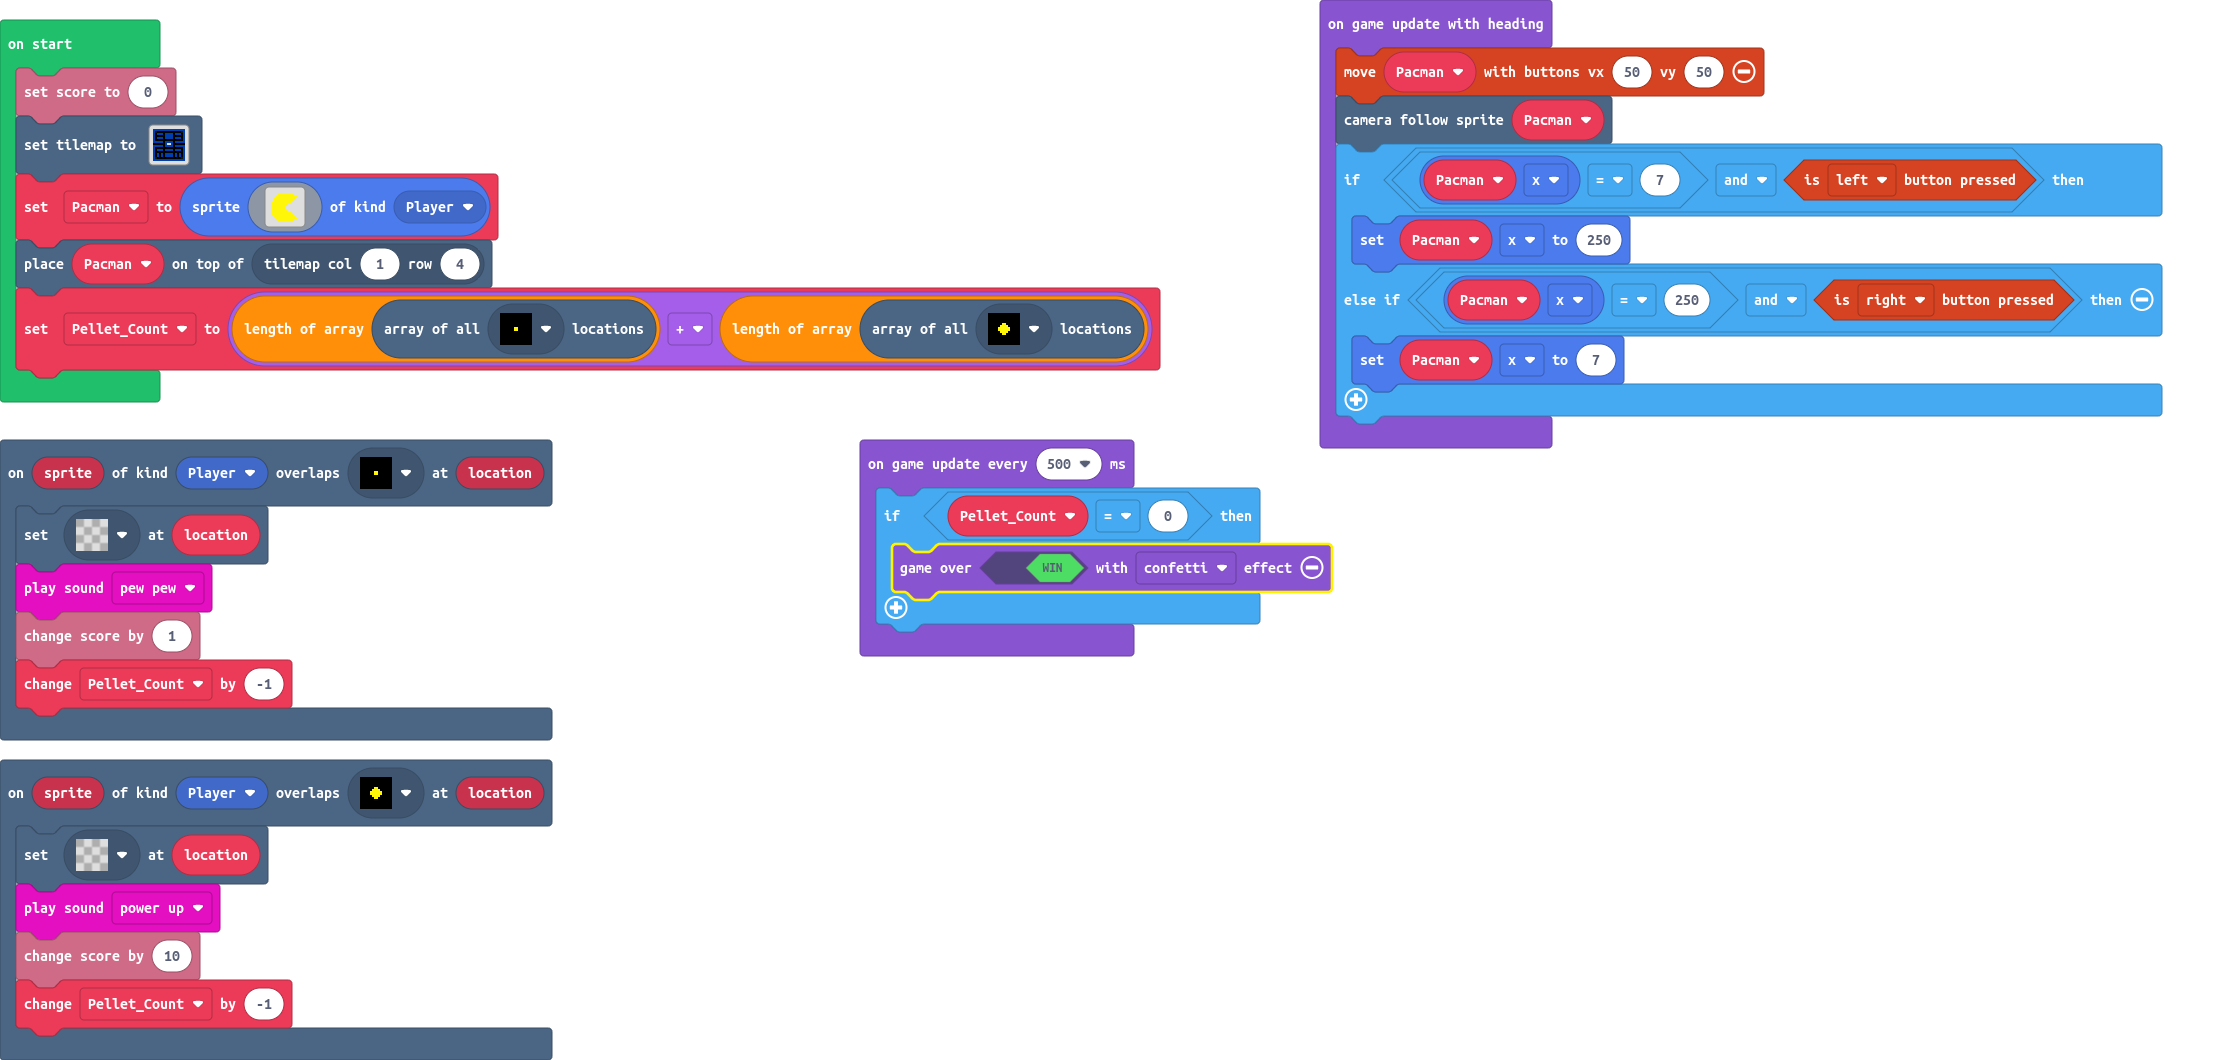
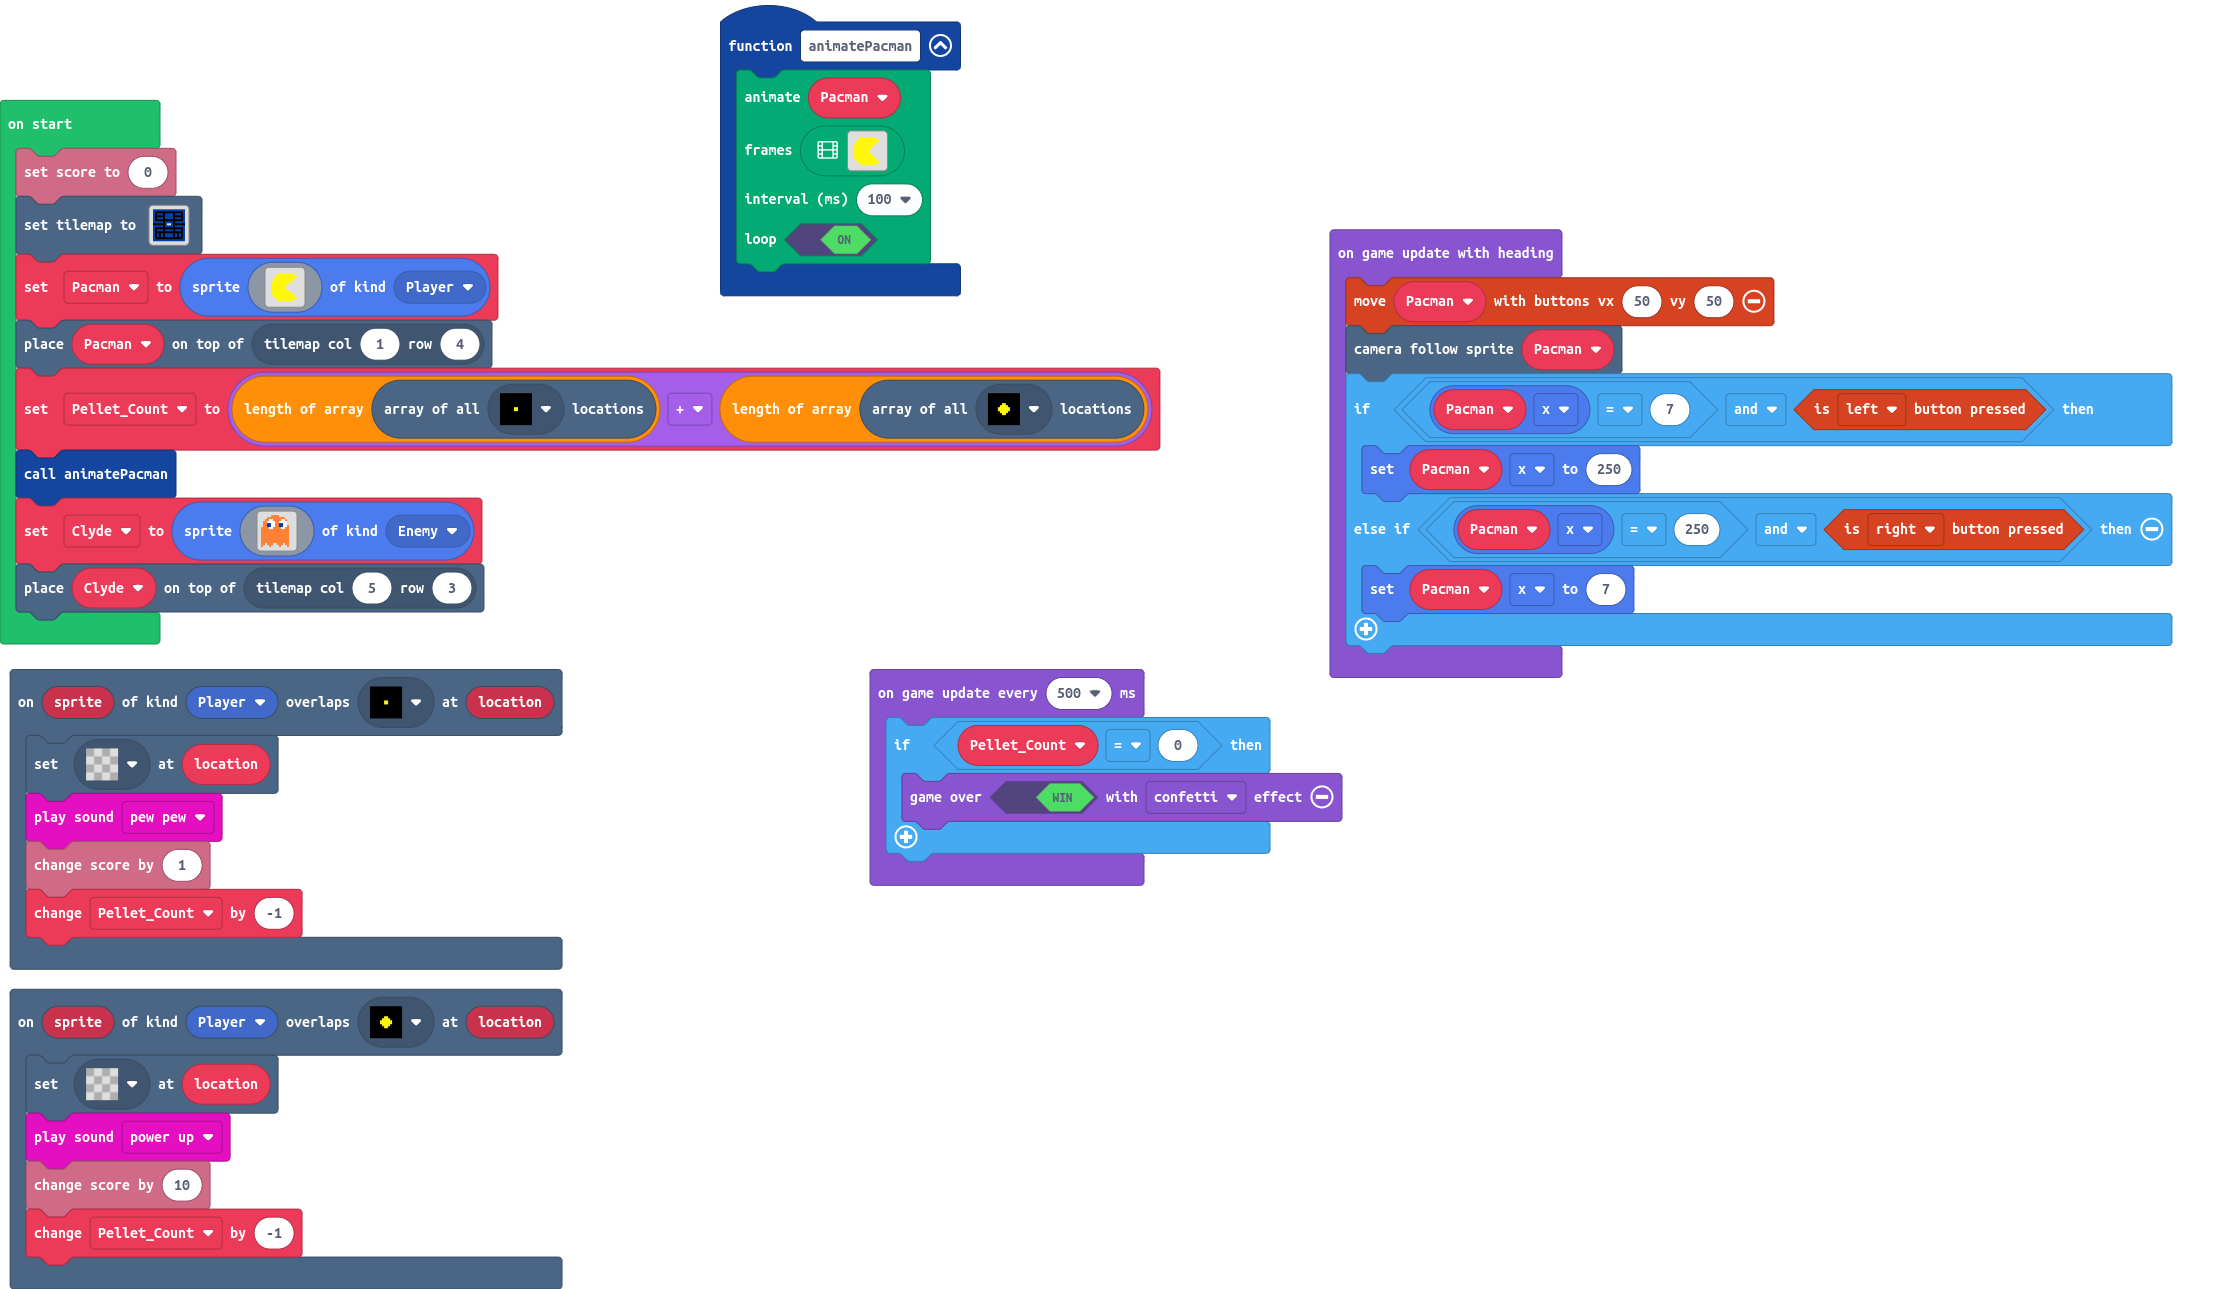
create clyde

diff --git a/main.ts b/main.ts
@@ -1,3 +1,96 @@
+function animatePacman () {
+    animation.runImageAnimation(
+    Pacman,
+    [img`
+        . . . . . . . . . . . . . . . . 
+        . . . . 5 5 5 5 5 5 5 5 . . . . 
+        . . . 5 5 5 5 5 5 5 5 5 5 5 . . 
+        . . 5 5 5 5 5 5 5 5 5 5 5 . . . 
+        . . 5 5 5 5 5 5 5 5 5 5 . . . . 
+        . 5 5 5 5 5 5 5 5 5 5 . . . . . 
+        . 5 5 5 5 5 5 5 5 5 . . . . . . 
+        . 5 5 5 5 5 5 5 5 . . . . . . . 
+        . 5 5 5 5 5 5 5 5 . . . . . . . 
+        . 5 5 5 5 5 5 5 5 5 . . . . . . 
+        . 5 5 5 5 5 5 5 5 5 5 . . . . . 
+        . 5 5 5 5 5 5 5 5 5 5 5 . . . . 
+        . . 5 5 5 5 5 5 5 5 5 5 5 . . . 
+        . . . 5 5 5 5 5 5 5 5 5 5 5 . . 
+        . . . . 5 5 5 5 5 5 5 5 . . . . 
+        . . . . . . . . . . . . . . . . 
+        `,img`
+        . . . . . . . . . . . . . . . . 
+        . . . . 5 5 5 5 5 5 5 5 . . . . 
+        . . . 5 5 5 5 5 5 5 5 5 5 5 . . 
+        . . 5 5 5 5 5 5 5 5 5 5 5 5 . . 
+        . . 5 5 5 5 5 5 5 5 5 5 5 5 5 . 
+        . 5 5 5 5 5 5 5 5 5 5 5 5 5 5 . 
+        . 5 5 5 5 5 5 5 5 5 5 . . . . . 
+        . 5 5 5 5 5 5 5 5 . . . . . . . 
+        . 5 5 5 5 5 5 5 5 . . . . . . . 
+        . 5 5 5 5 5 5 5 5 5 5 . . . . . 
+        . 5 5 5 5 5 5 5 5 5 5 5 5 5 5 . 
+        . 5 5 5 5 5 5 5 5 5 5 5 5 5 5 . 
+        . . 5 5 5 5 5 5 5 5 5 5 5 5 . . 
+        . . . 5 5 5 5 5 5 5 5 5 5 5 . . 
+        . . . . 5 5 5 5 5 5 5 5 . . . . 
+        . . . . . . . . . . . . . . . . 
+        `,img`
+        . . . . . . . . . . . . . . . . 
+        . . . . 5 5 5 5 5 5 5 5 . . . . 
+        . . . 5 5 5 5 5 5 5 5 5 5 . . . 
+        . . 5 5 5 5 5 5 5 5 5 5 5 5 . . 
+        . . 5 5 5 5 5 5 5 5 5 5 5 5 . . 
+        . 5 5 5 5 5 5 5 5 5 5 5 5 5 5 . 
+        . 5 5 5 5 5 5 5 5 5 5 5 5 5 5 . 
+        . 5 5 5 5 5 5 5 5 5 5 5 5 5 5 . 
+        . 5 5 5 5 5 5 5 5 5 5 5 5 5 5 . 
+        . 5 5 5 5 5 5 5 5 5 5 5 5 5 5 . 
+        . 5 5 5 5 5 5 5 5 5 5 5 5 5 5 . 
+        . 5 5 5 5 5 5 5 5 5 5 5 5 5 5 . 
+        . . 5 5 5 5 5 5 5 5 5 5 5 5 . . 
+        . . . 5 5 5 5 5 5 5 5 5 5 . . . 
+        . . . . 5 5 5 5 5 5 5 5 . . . . 
+        . . . . . . . . . . . . . . . . 
+        `,img`
+        . . . . . . . . . . . . . . . . 
+        . . . . 5 5 5 5 5 5 5 5 . . . . 
+        . . . 5 5 5 5 5 5 5 5 5 5 5 . . 
+        . . 5 5 5 5 5 5 5 5 5 5 5 5 . . 
+        . . 5 5 5 5 5 5 5 5 5 5 5 5 5 . 
+        . 5 5 5 5 5 5 5 5 5 5 5 5 5 5 . 
+        . 5 5 5 5 5 5 5 5 5 5 . . . . . 
+        . 5 5 5 5 5 5 5 5 . . . . . . . 
+        . 5 5 5 5 5 5 5 5 . . . . . . . 
+        . 5 5 5 5 5 5 5 5 5 5 . . . . . 
+        . 5 5 5 5 5 5 5 5 5 5 5 5 5 5 . 
+        . 5 5 5 5 5 5 5 5 5 5 5 5 5 5 . 
+        . . 5 5 5 5 5 5 5 5 5 5 5 5 . . 
+        . . . 5 5 5 5 5 5 5 5 5 5 5 . . 
+        . . . . 5 5 5 5 5 5 5 5 . . . . 
+        . . . . . . . . . . . . . . . . 
+        `,img`
+        . . . . . . . . . . . . . . . . 
+        . . . . 5 5 5 5 5 5 5 5 . . . . 
+        . . . 5 5 5 5 5 5 5 5 5 5 5 . . 
+        . . 5 5 5 5 5 5 5 5 5 5 5 . . . 
+        . . 5 5 5 5 5 5 5 5 5 5 . . . . 
+        . 5 5 5 5 5 5 5 5 5 5 . . . . . 
+        . 5 5 5 5 5 5 5 5 5 . . . . . . 
+        . 5 5 5 5 5 5 5 5 . . . . . . . 
+        . 5 5 5 5 5 5 5 5 . . . . . . . 
+        . 5 5 5 5 5 5 5 5 5 . . . . . . 
+        . 5 5 5 5 5 5 5 5 5 5 . . . . . 
+        . 5 5 5 5 5 5 5 5 5 5 5 . . . . 
+        . . 5 5 5 5 5 5 5 5 5 5 5 . . . 
+        . . . 5 5 5 5 5 5 5 5 5 5 5 . . 
+        . . . . 5 5 5 5 5 5 5 5 . . . . 
+        . . . . . . . . . . . . . . . . 
+        `],
+    100,
+    true
+    )
+}
 scene.onOverlapTile(SpriteKind.Player, myTiles.tile4, function (sprite, location) {
     tiles.setTileAt(location, myTiles.transparency16)
     music.pewPew.play()
@@ -59,6 +152,26 @@ Pacman = sprites.create(img`
     `, SpriteKind.Player)
 tiles.placeOnTile(Pacman, tiles.getTileLocation(1, 4))
 let Pellet_Count = tiles.getTilesByType(myTiles.tile4).length + tiles.getTilesByType(myTiles.tile5).length
+animatePacman()
+let Clyde = sprites.create(img`
+    . . . . . 4 4 4 4 . . . . . . . 
+    . . . 4 4 4 4 4 4 4 4 4 . . . . 
+    . . 4 4 1 1 4 4 4 4 1 1 4 . . . 
+    . 4 4 1 1 1 1 4 4 1 1 1 1 . . . 
+    . 4 4 8 8 1 1 4 4 8 8 1 1 . . . 
+    . 4 4 8 8 1 1 4 4 8 8 1 1 4 . . 
+    4 4 4 4 1 1 4 4 4 4 1 1 4 4 . . 
+    4 4 4 4 4 4 4 4 4 4 4 4 4 4 . . 
+    4 4 4 4 4 4 4 4 4 4 4 4 4 4 . . 
+    4 4 4 4 4 4 4 4 4 4 4 4 4 4 . . 
+    4 4 4 4 4 4 4 4 4 4 4 4 4 4 . . 
+    4 4 4 4 4 4 4 4 4 4 4 4 4 4 . . 
+    4 4 4 4 4 4 4 4 4 4 4 4 4 4 . . 
+    4 4 4 4 4 4 4 4 4 4 4 4 4 4 . . 
+    4 4 . 4 4 4 . . 4 4 4 . 4 4 . . 
+    4 . . . 4 . . . . 4 . . . 4 . . 
+    `, SpriteKind.Enemy)
+tiles.placeOnTile(Clyde, tiles.getTileLocation(5, 3))
 game.onUpdateInterval(500, function () {
     if (Pellet_Count == 0) {
         game.over(true, effects.confetti)
